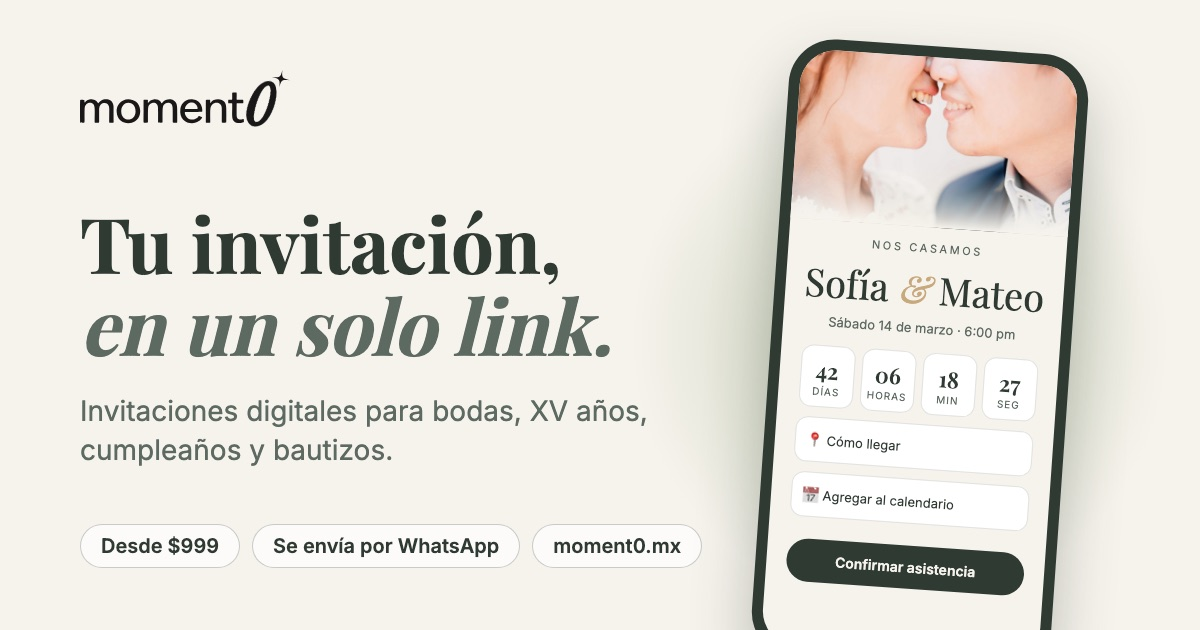
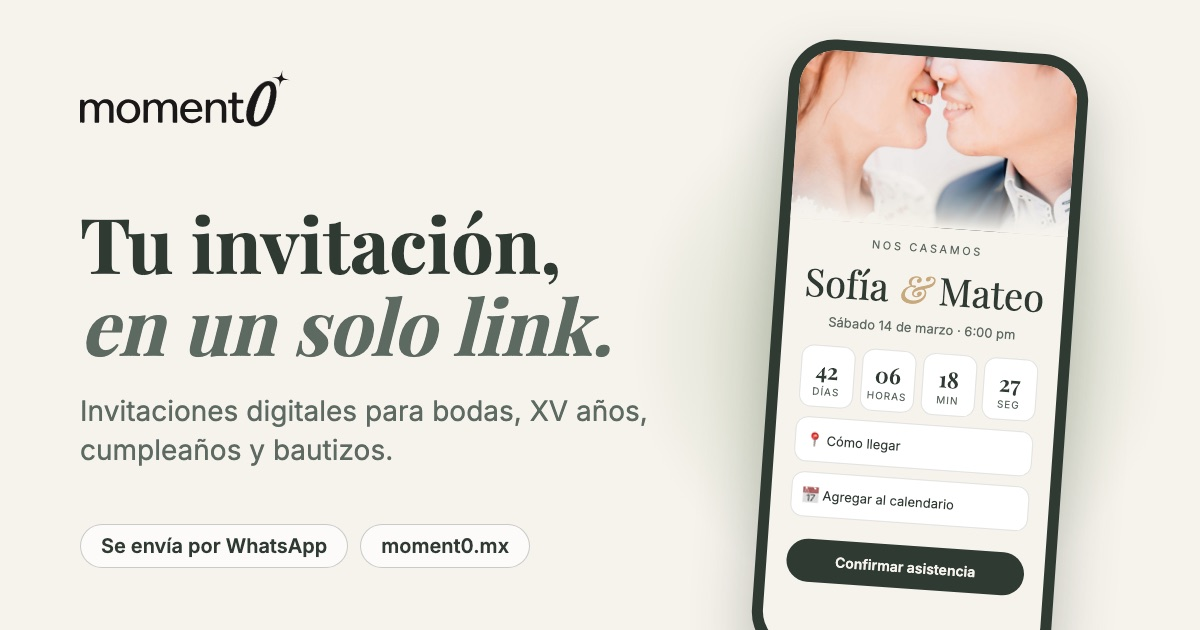
fix: remove price from social image and share text

Changed region(s): [[0.0925, 0.8444, 0.4317, 0.9048], [0.4625, 0.8444, 0.5858, 0.9048]]

diff --git a/index.html b/index.html
@@ -20,19 +20,19 @@
   <meta property="og:site_name" content="Moment0" />
   <meta property="og:locale" content="es_MX" />
   <meta property="og:title" content="Moment0 — Invitaciones digitales" />
-  <meta property="og:description" content="Tu invitación en un solo link: ubicación, cuenta regresiva y confirmación de asistencia. Desde $999." />
+  <meta property="og:description" content="Tu invitación en un solo link: ubicación, cuenta regresiva y confirmación de asistencia." />
   <meta property="og:url" content="https://moment0.mx/" />
-  <meta property="og:image" content="https://moment0.mx/assets/og-image.jpg" />
+  <meta property="og:image" content="https://moment0.mx/assets/og-image.jpg?v=2" />
   <meta property="og:image:type" content="image/jpeg" />
   <meta property="og:image:width" content="1200" />
   <meta property="og:image:height" content="630" />
   <meta property="og:image:alt" content="Moment0: tu invitación digital en un solo link, con cuenta regresiva y confirmación de asistencia" />
   <meta name="twitter:card" content="summary_large_image" />
   <meta name="twitter:title" content="Moment0 — Invitaciones digitales" />
-  <meta name="twitter:description" content="Tu invitación en un solo link: ubicación, cuenta regresiva y confirmación de asistencia. Desde $999." />
-  <meta name="twitter:image" content="https://moment0.mx/assets/og-image.jpg" />
+  <meta name="twitter:description" content="Tu invitación en un solo link: ubicación, cuenta regresiva y confirmación de asistencia." />
+  <meta name="twitter:image" content="https://moment0.mx/assets/og-image.jpg?v=2" />
   <script type="application/ld+json">
-  {"@context":"https://schema.org","@type":"Organization","name":"Moment0","url":"https://moment0.mx/","logo":"https://moment0.mx/assets/og-image.jpg","description":"Invitaciones digitales para bodas, XV años, cumpleaños y bautizos.","email":"somos@moment0.mx","telephone":"+52 722 931 3202","areaServed":"MX","sameAs":["https://www.instagram.com/somos.moment0","https://www.tiktok.com/@somos.moment0"],"contactPoint":{"@type":"ContactPoint","contactType":"ventas","telephone":"+52 722 931 3202","availableLanguage":"es"}}
+  {"@context":"https://schema.org","@type":"Organization","name":"Moment0","url":"https://moment0.mx/","logo":"https://moment0.mx/assets/og-image.jpg?v=2","description":"Invitaciones digitales para bodas, XV años, cumpleaños y bautizos.","email":"somos@moment0.mx","telephone":"+52 722 931 3202","areaServed":"MX","sameAs":["https://www.instagram.com/somos.moment0","https://www.tiktok.com/@somos.moment0"],"contactPoint":{"@type":"ContactPoint","contactType":"ventas","telephone":"+52 722 931 3202","availableLanguage":"es"}}
   </script>
   <link rel="canonical" href="https://moment0.mx/" />
   <link rel="icon" type="image/svg+xml" href="assets/favicon.svg" />
